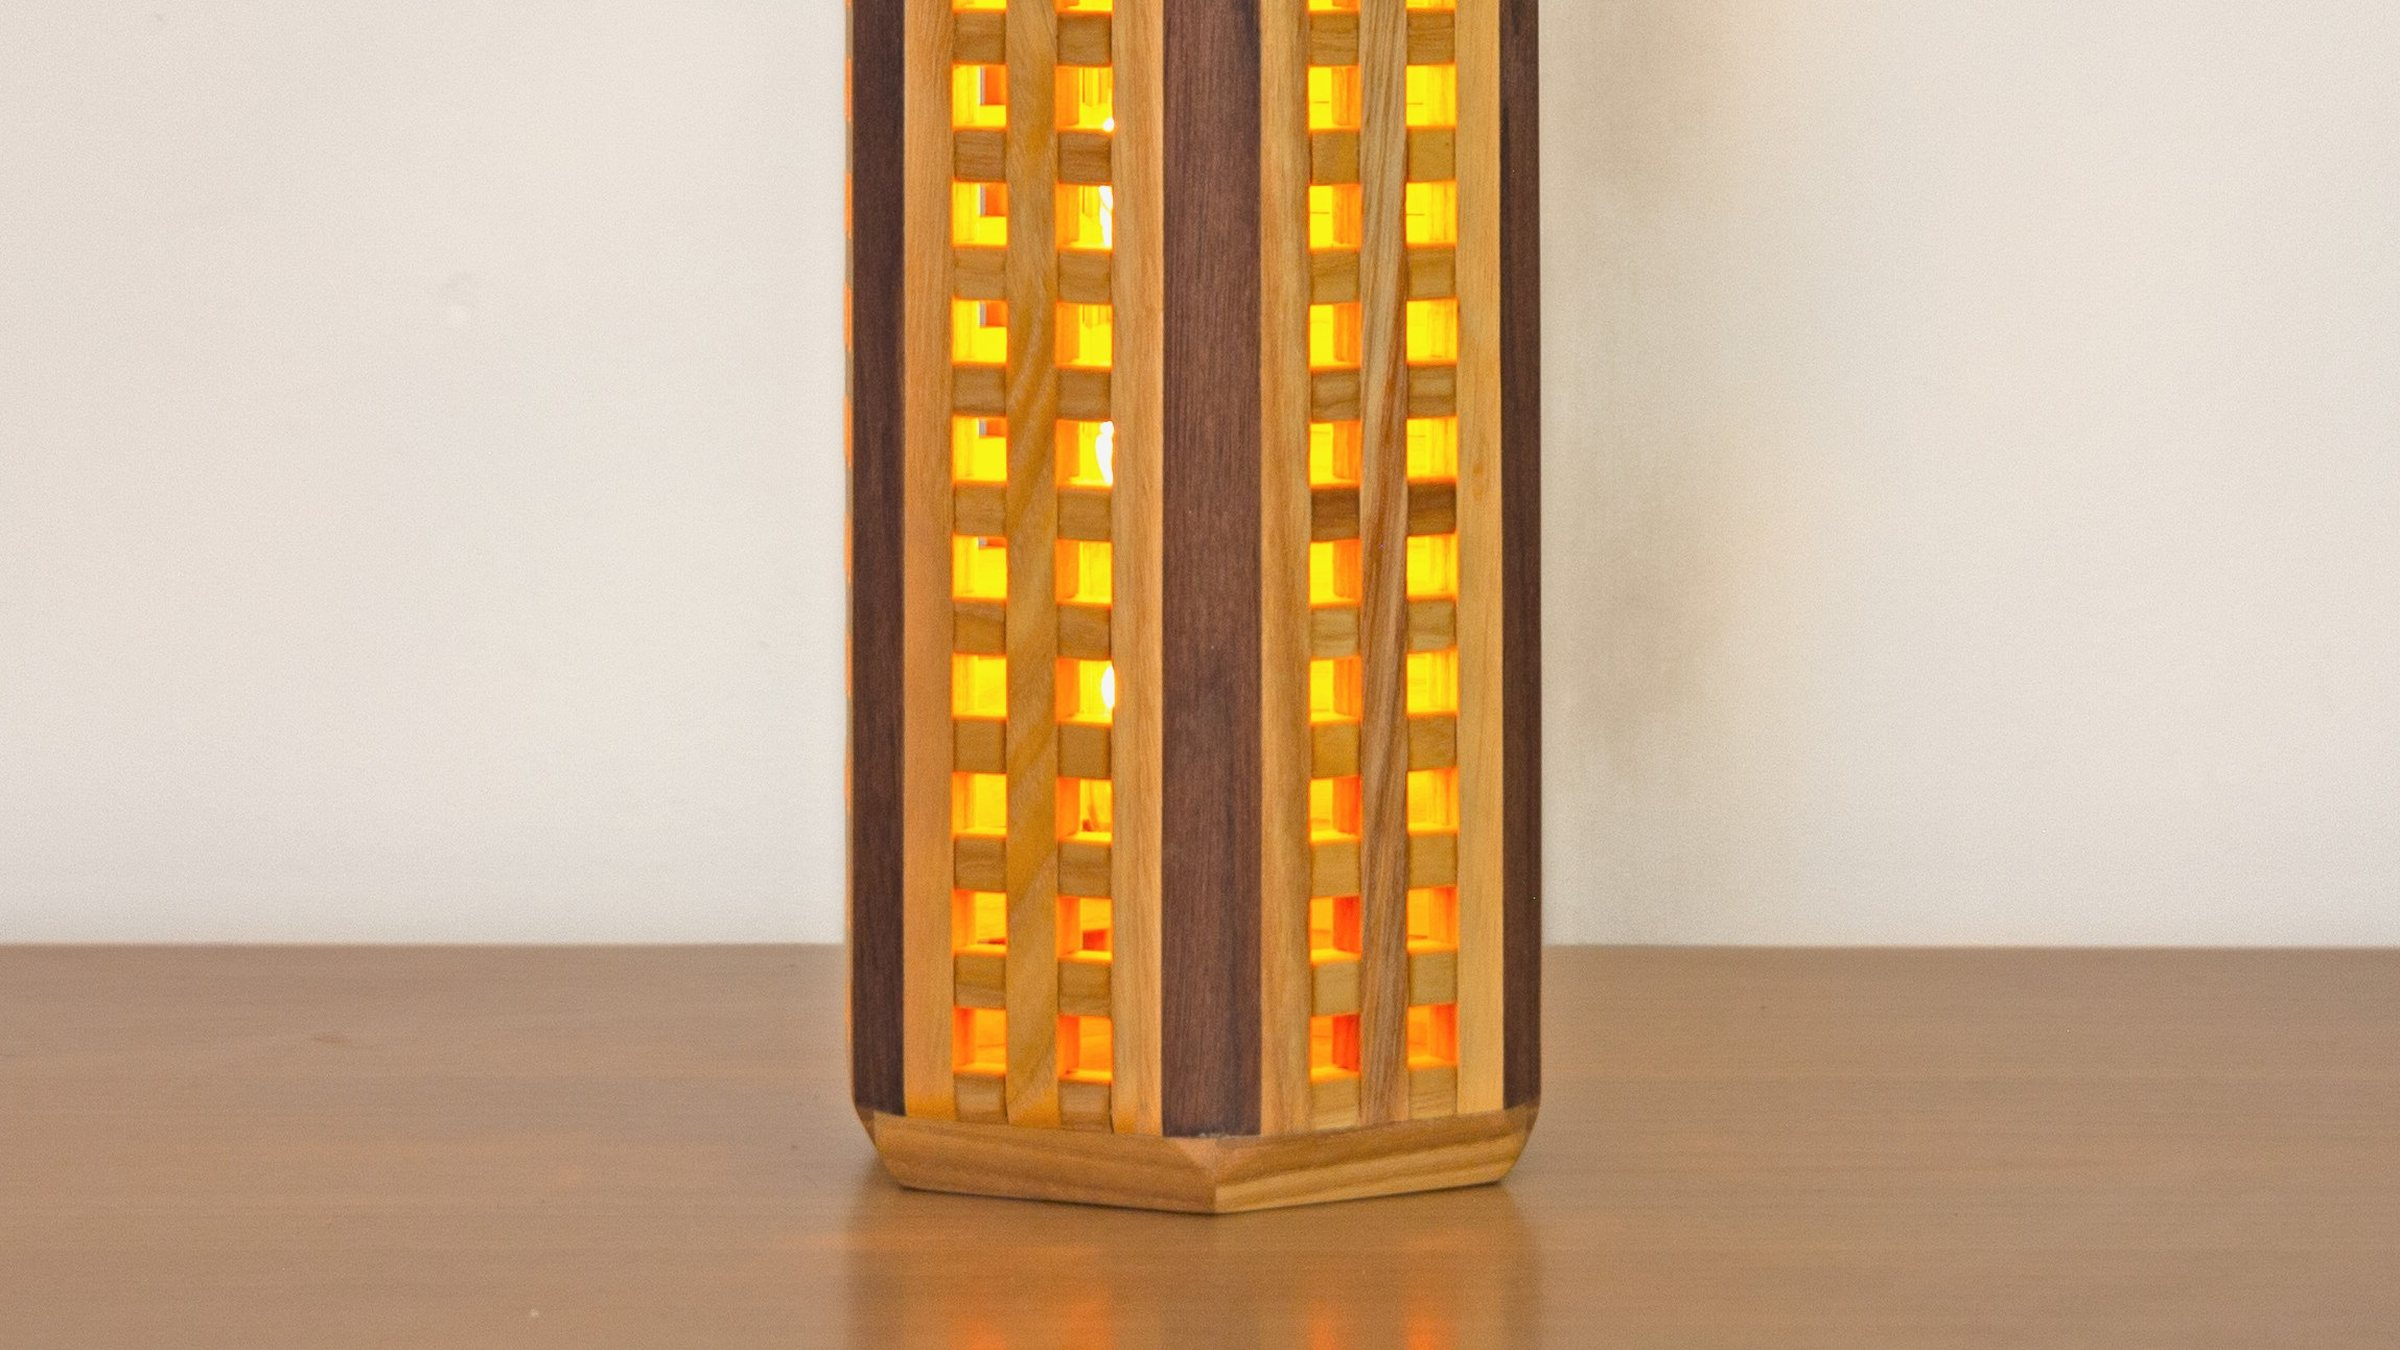
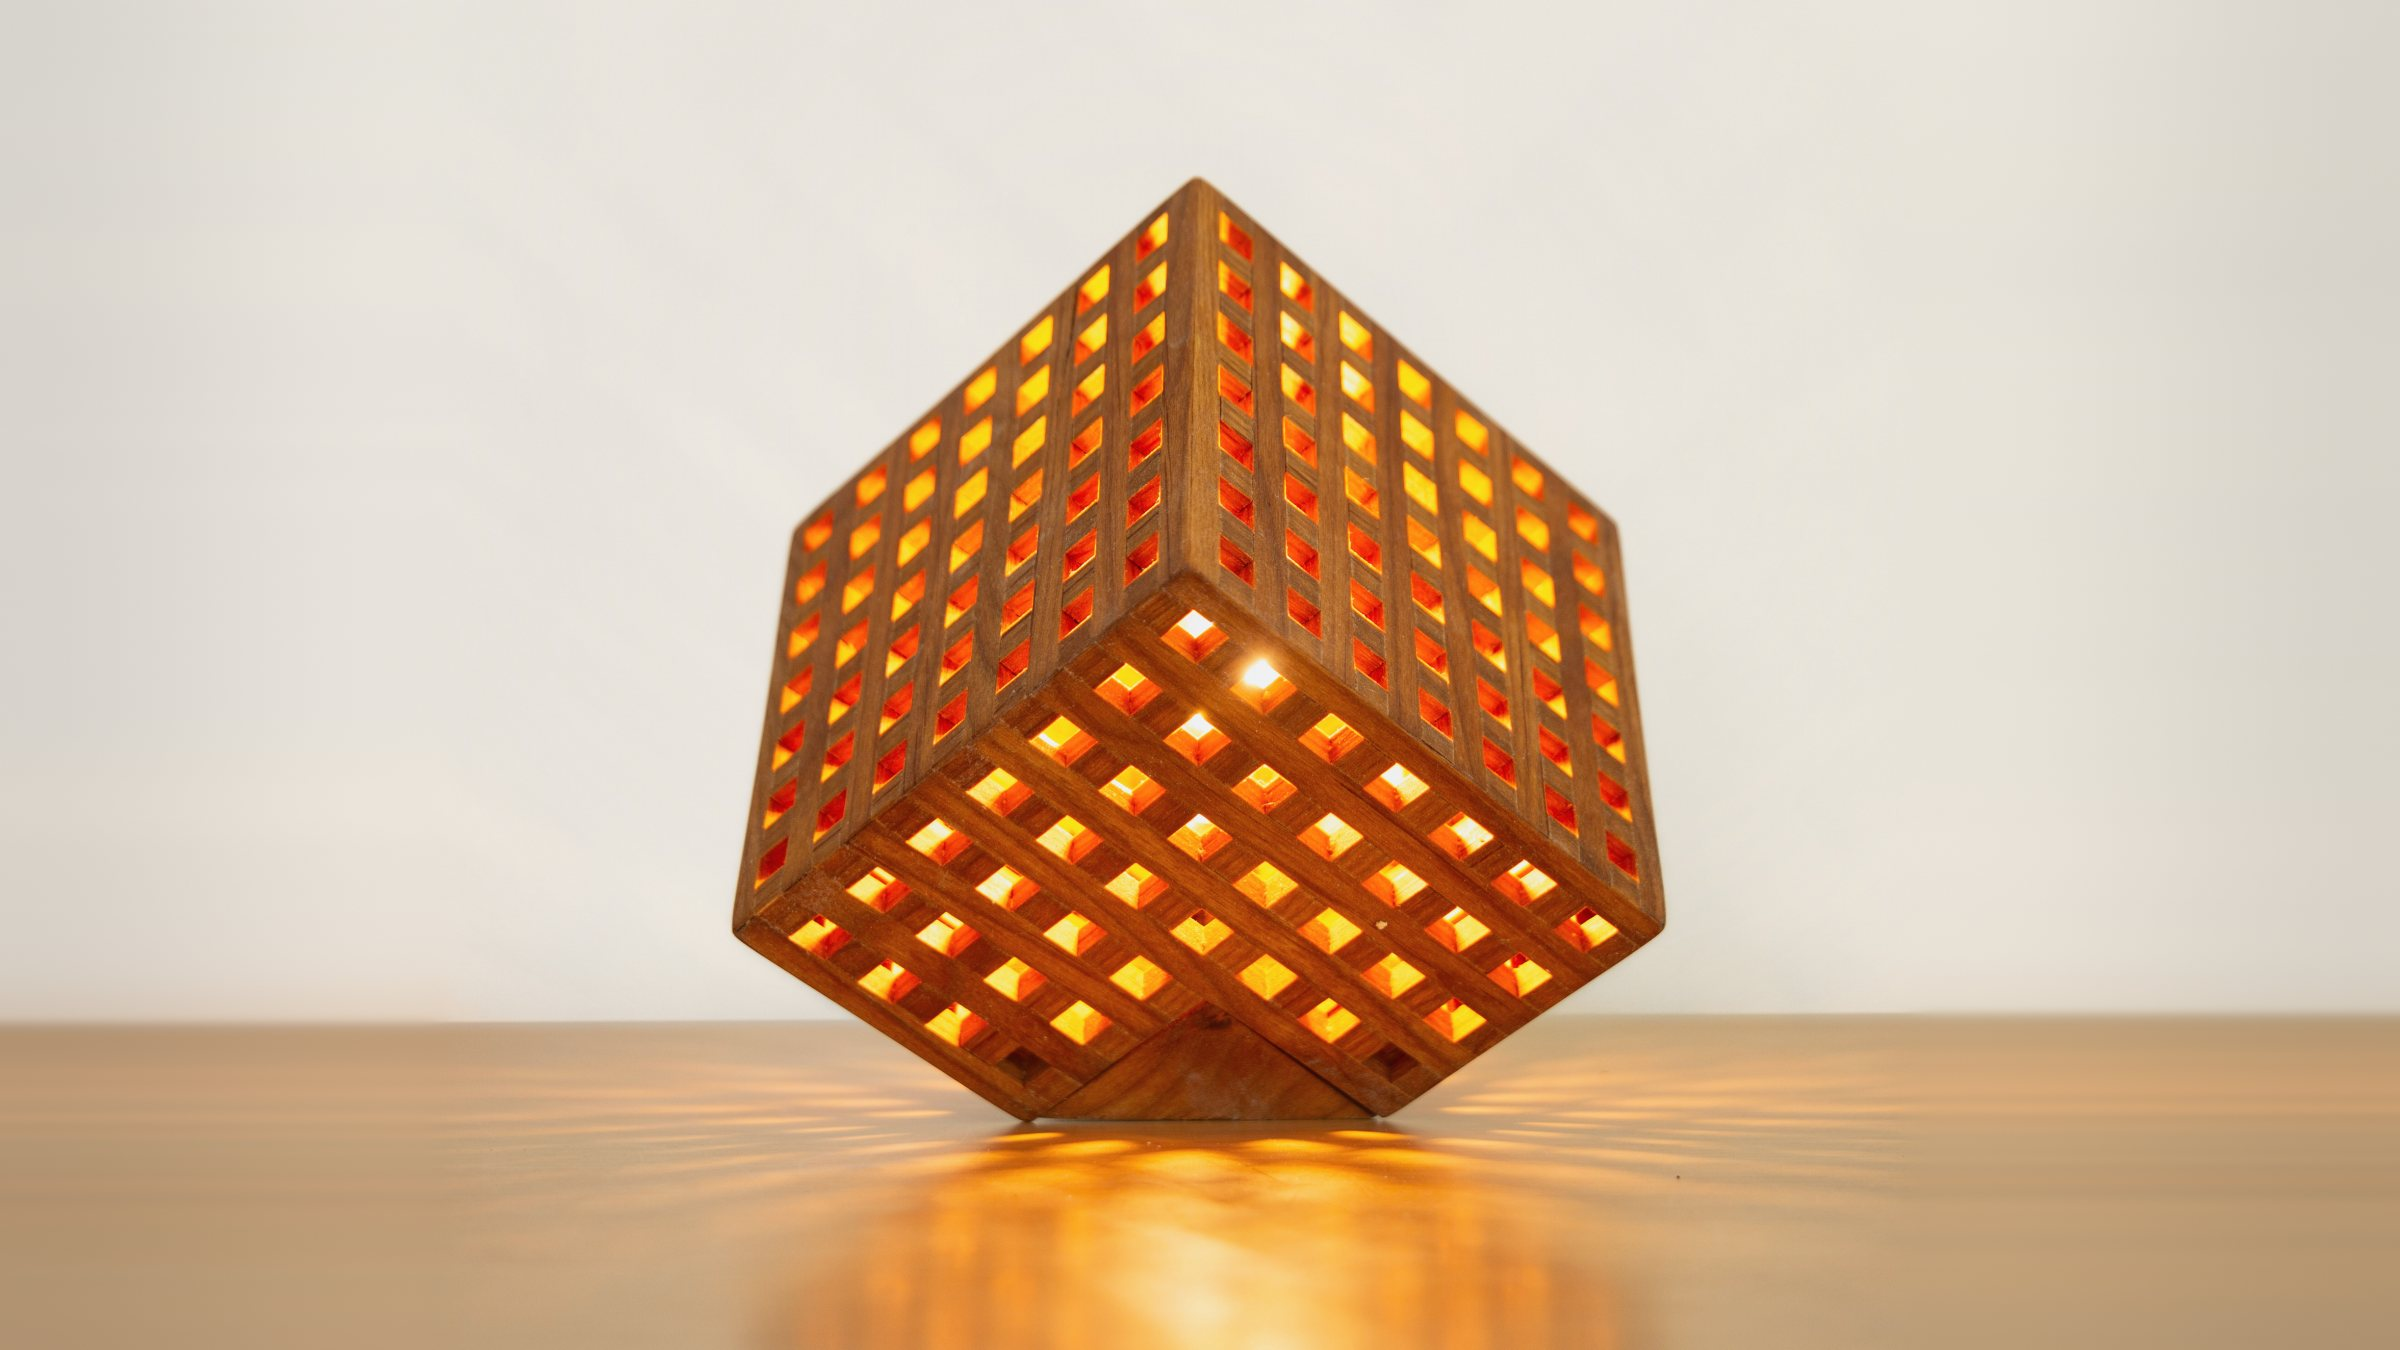
Whole lamps in hero, less zoom, tighter spacing

diff --git a/styles.css b/styles.css
@@ -104,10 +104,10 @@ h3 { font-size: 1.2rem; font-weight: 500; line-height: 1.5; letter-spacing: 0.02
 .hero { position: relative; height: 100vh; height: 100svh; min-height: 30rem; overflow: hidden; background: #6E5A44; cursor: grab; touch-action: pan-y; user-select: none; -webkit-user-select: none; }
 .hero.is-dragging { cursor: grabbing; }
 .hero:focus-visible { outline-offset: -6px; }
-.slide { position: absolute; inset: 0; width: 100%; height: 100%; object-fit: cover; transform: scale(1.06); will-change: translate; opacity: 0; transition: opacity 3.6s cubic-bezier(0.4, 0, 0.2, 1); }
+.slide { position: absolute; inset: 0; width: 100%; height: 100%; object-fit: cover; transform: scale(1.02); will-change: translate; opacity: 0; transition: opacity 3.6s cubic-bezier(0.4, 0, 0.2, 1); }
 .slide.is-on { opacity: 1; }
 .js .slide.is-on { animation: drift 16s cubic-bezier(0.25, 0.1, 0.25, 1) both; }
-@keyframes drift { from { transform: scale(1.1); } to { transform: scale(1.06); } }
+@keyframes drift { from { transform: scale(1.035); } to { transform: scale(1.02); } }
 .hero::after { content: ""; position: absolute; inset: auto 0 0 0; height: 55%; background: linear-gradient(to top, rgba(24, 18, 12, 0.5), rgba(24, 18, 12, 0.18) 45%, rgba(24, 18, 12, 0)); pointer-events: none; }
 /* Words on the photo, as on Nakashima's opening image: lower left, white, quiet */
 .hero-words { position: absolute; z-index: 2; left: max(var(--pad), 2rem); bottom: clamp(4.5rem, 10vh, 7rem); max-width: 32rem; text-align: left; color: #FFFFFF; pointer-events: none; text-shadow: 0 1px 16px rgba(0, 0, 0, 0.25); }
@@ -123,7 +123,7 @@ h3 { font-size: 1.2rem; font-weight: 500; line-height: 1.5; letter-spacing: 0.02
 
 /* Split: a photo and its words side by side, set inside the page with wide margins all round.
    Photos are modest in size so the page breathes; sides alternate down each page. */
-.split { container-type: inline-size; display: grid; grid-template-columns: minmax(18rem, 27rem) minmax(18rem, 27rem); justify-content: center; align-items: center; gap: clamp(3rem, 8vw, 9rem); max-width: 68rem; margin-inline: auto; padding: clamp(5rem, 11vw, 10rem) var(--pad); }
+.split { container-type: inline-size; display: grid; grid-template-columns: minmax(18rem, 27rem) minmax(18rem, 27rem); justify-content: center; align-items: center; gap: clamp(3rem, 8vw, 9rem); max-width: 68rem; margin-inline: auto; padding: clamp(2.5rem, 5vw, 4.5rem) var(--pad); }
 .split-media { position: relative; display: block; width: 100%; max-width: 27rem; aspect-ratio: 4 / 5; justify-self: center; overflow: hidden; background: #E3DDD1; }
 .split-media img { position: absolute; inset: 0; width: 100%; height: 100%; object-fit: cover; }
 .split-words { display: flex; flex-direction: column; justify-content: center; text-align: left; }
@@ -201,7 +201,7 @@ h3 { font-size: 1.2rem; font-weight: 500; line-height: 1.5; letter-spacing: 0.02
 
 /* Tablet and phone */
 @media (max-width: 44rem) {
-  .split, .split--flip { grid-template-columns: 1fr; gap: 3.5rem; padding-block: clamp(4rem, 10vw, 7rem); }
+  .split, .split--flip { grid-template-columns: 1fr; gap: 2.5rem; padding-block: clamp(2rem, 7vw, 3rem); }
   .split-media { max-width: none; aspect-ratio: auto; height: min(calc((100vw - 2 * var(--pad)) * 1.25), 85vh); height: min(calc((100vw - 2 * var(--pad)) * 1.25), 85svh); }
   .split--flip .split-media { order: 0; }
   .split-words > .inner { max-width: 34rem; }
@@ -229,7 +229,7 @@ h3 { font-size: 1.2rem; font-weight: 500; line-height: 1.5; letter-spacing: 0.02
 }
 /* Alive: photos that answer the cursor and the scroll (driven by site.js), words that rise into place */
 [data-live] { overflow: hidden; }
-[data-live] img { will-change: translate; transform: scale(1.1); }
+[data-live] img { will-change: translate; transform: scale(1.05); }
 .js [data-reveal] { opacity: 0; transform: translateY(14px); transition: opacity 2.2s cubic-bezier(0.4, 0, 0.2, 1), transform 2.6s cubic-bezier(0.2, 0.6, 0.2, 1); }
 .js [data-reveal].is-in { opacity: 1; transform: none; }
 

diff --git a/index.html b/index.html
@@ -36,9 +36,9 @@
 <main id="main">
   <section class="hero" tabindex="0" aria-roledescription="carousel" aria-label="Lattice lamps in light. Click, swipe or use the arrow keys to change the photo.">
     <img class="slide is-on" src="images/hero-1.jpg" width="2400" height="1350" style="object-position: 50% 50%" alt="A small lattice tower glowing on a wooden table against a pale wall." draggable="false" fetchpriority="high">
-    <img class="slide" src="images/hero-3.jpg" width="2400" height="1350" style="object-position: 36% 50%" alt="A lattice cube resting on its corner, light falling softly across a pale wall." draggable="false" loading="lazy" decoding="async">
-    <img class="slide" src="images/hero-4.jpg" width="2400" height="1350" style="object-position: 60% 50%" alt="A tall tower of mixed woods glowing on a wooden sideboard." draggable="false" loading="lazy" decoding="async">
-    <img class="slide" src="images/hero-5.jpg" width="2400" height="1350" style="object-position: 50% 50%" alt="Close view of a large lattice lamp, warm light through layers of wood." draggable="false" loading="lazy" decoding="async">
+    <img class="slide" src="images/hero-2.jpg" width="2400" height="1350" style="object-position: 50% 50%" alt="A dark lattice cube tilted onto one edge, glowing on a wooden table." draggable="false" loading="lazy" decoding="async">
+    <img class="slide" src="images/hero-3.jpg" width="2400" height="1350" style="object-position: 50% 50%" alt="A tall lattice tower of mixed woods glowing on a wooden table." draggable="false" loading="lazy" decoding="async">
+    <img class="slide" src="images/hero-4.jpg" width="2400" height="1350" style="object-position: 50% 50%" alt="A lattice cube balanced on its corner, light spilling across the table." draggable="false" loading="lazy" decoding="async">
     <div class="hero-words" data-reveal>
       <p class="hero-kicker">Lattice Lamp Collection</p>
       <h1>Light that turns Space into Inspiration</h1>

diff --git a/site.js b/site.js
@@ -86,9 +86,9 @@
         if (r.bottom < -50 || r.top > vh + 50) return;
         var gx = tilting ? tiltX : o.tx, gy = tilting ? tiltY : o.ty;
         o.mx += (gx - o.mx) * 0.035; o.my += (gy - o.my) * 0.035;
-        var lean = Math.min(r.width, 900) * (o.scroll ? 0.012 : 0.01);
+        var lean = Math.min(r.width, 900) * (o.scroll ? 0.008 : 0.006);
         var py = 0;
-        if (o.scroll) { var t = ((r.top + r.height / 2) - vh / 2) / (vh / 2 + r.height / 2); py = t * r.height * 0.03; }
+        if (o.scroll) { var t = ((r.top + r.height / 2) - vh / 2) / (vh / 2 + r.height / 2); py = t * r.height * 0.015; }
         var v = (o.mx * lean).toFixed(2) + 'px ' + (py + o.my * lean).toFixed(2) + 'px';
         if (o.img) { o.img.style.translate = v; }
         if (o.imgs) { o.imgs.forEach(function (im) { im.style.translate = v; }); }
